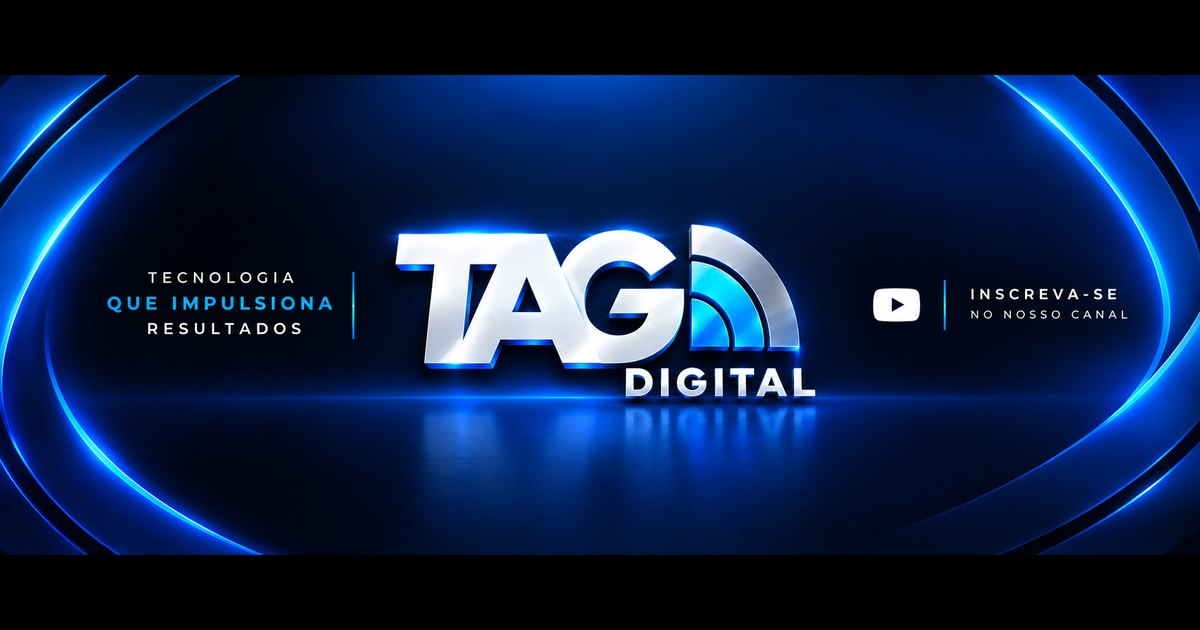
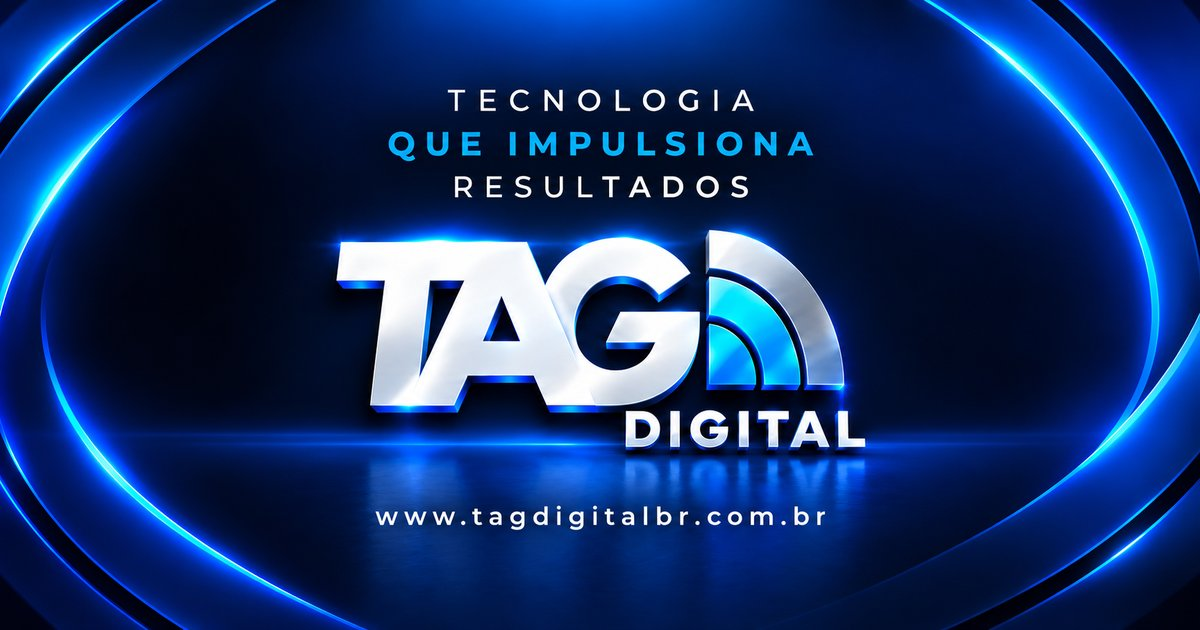
GTM, pré-visualização de link e base de SEO/GEO
GTM-T42P4MW3 no head e noscript no body. Nova imagem de link 1200x630 com og/twitter completos e URLs absolutas. JSON-LD em @graph (organização, site, Leadhub, Agilles e FAQ gerado do texto visível), robots.txt liberando bots de IA, sitemap.xml e llms.txt. Domínio: www.tagdigitalbr.com.br.

Claude-Session: https://claude.ai/code/session_019dJWcn6bvBrXAzEWKcv6Er

diff --git a/index.html b/index.html
@@ -2,17 +2,36 @@
 <html lang="pt-BR">
 <head>
 <meta charset="utf-8">
+<!-- Google Tag Manager -->
+<script>(function(w,d,s,l,i){w[l]=w[l]||[];w[l].push({'gtm.start':
+new Date().getTime(),event:'gtm.js'});var f=d.getElementsByTagName(s)[0],
+j=d.createElement(s),dl=l!='dataLayer'?'&l='+l:'';j.async=true;j.src=
+'https://www.googletagmanager.com/gtm.js?id='+i+dl;f.parentNode.insertBefore(j,f);
+})(window,document,'script','dataLayer','GTM-T42P4MW3');</script>
+<!-- End Google Tag Manager -->
 <meta name="viewport" content="width=device-width, initial-scale=1">
-<title>TAG Digital — Tecnologia que impulsiona resultados</title>
-<meta name="description" content="Plataformas próprias, inteligência artificial e desenvolvimento sob medida para conectar marketing, vendas e gestão. Leadhub CRM, Superagente IA, Agilles ERP, sites, automações e performance.">
+<title>TAG Digital — Tecnologia, IA e marketing de performance em BH</title>
+<meta name="description" content="Leadhub CRM, Superagente IA, Agilles ERP, sites, automações com IA e marketing de performance para empresas. TAG Digital, Belo Horizonte (MG).">
+<meta name="robots" content="index, follow, max-image-preview:large, max-snippet:-1">
 <meta name="theme-color" content="#010615">
-<link rel="canonical" href="https://redetag.com.br/">
+<link rel="canonical" href="https://www.tagdigitalbr.com.br/">
+<!-- pré-visualização de link (WhatsApp, LinkedIn, Facebook, X) -->
 <meta property="og:type" content="website">
 <meta property="og:locale" content="pt_BR">
+<meta property="og:site_name" content="TAG Digital">
+<meta property="og:url" content="https://www.tagdigitalbr.com.br/">
 <meta property="og:title" content="TAG Digital — Tecnologia que impulsiona resultados">
 <meta property="og:description" content="Plataformas próprias, IA e desenvolvimento sob medida para conectar marketing, vendas e gestão.">
-<meta property="og:image" content="assets/img/og-tag.jpg">
+<meta property="og:image" content="https://www.tagdigitalbr.com.br/assets/img/og-tag.jpg">
+<meta property="og:image:secure_url" content="https://www.tagdigitalbr.com.br/assets/img/og-tag.jpg">
+<meta property="og:image:type" content="image/jpeg">
+<meta property="og:image:width" content="1200">
+<meta property="og:image:height" content="630">
+<meta property="og:image:alt" content="TAG Digital — Tecnologia que impulsiona resultados">
 <meta name="twitter:card" content="summary_large_image">
+<meta name="twitter:title" content="TAG Digital — Tecnologia que impulsiona resultados">
+<meta name="twitter:description" content="Plataformas próprias, IA e desenvolvimento sob medida para conectar marketing, vendas e gestão.">
+<meta name="twitter:image" content="https://www.tagdigitalbr.com.br/assets/img/og-tag.jpg">
 <link rel="icon" href="favicon.ico" sizes="any">
 <link rel="icon" type="image/png" href="favicon.png">
 <link rel="apple-touch-icon" href="apple-touch-icon.png">
@@ -20,10 +39,236 @@
 <link rel="preload" href="assets/fonts/OpenSans-400.woff2" as="font" type="font/woff2" crossorigin>
 <link rel="stylesheet" href="assets/css/site.css">
 <script type="application/ld+json">
-{"@context":"https://schema.org","@type":"Organization","name":"TAG Digital","url":"https://redetag.com.br","logo":"https://redetag.com.br/assets/img/tag-logo.png","email":"comercialtagdigital@gmail.com","telephone":"+55-31-99315-1956","address":{"@type":"PostalAddress","addressLocality":"Belo Horizonte","addressRegion":"MG","addressCountry":"BR"},"slogan":"Tecnologia que impulsiona resultados"}
+{
+ "@context": "https://schema.org",
+ "@graph": [
+  {
+   "@type": [
+    "Organization",
+    "ProfessionalService"
+   ],
+   "@id": "https://www.tagdigitalbr.com.br/#org",
+   "name": "TAG Digital",
+   "url": "https://www.tagdigitalbr.com.br/",
+   "logo": "https://www.tagdigitalbr.com.br/assets/img/tag-logo.png",
+   "image": "https://www.tagdigitalbr.com.br/assets/img/og-tag.jpg",
+   "slogan": "Tecnologia que impulsiona resultados",
+   "description": "Empresa de tecnologia e marketing de Belo Horizonte: plataformas próprias (Leadhub CRM, Superagente IA, Agilles ERP), sites e aplicações, agentes de IA, automações e marketing de performance.",
+   "email": "comercialtagdigital@gmail.com",
+   "telephone": "+55-31-99315-1956",
+   "address": {
+    "@type": "PostalAddress",
+    "addressLocality": "Belo Horizonte",
+    "addressRegion": "MG",
+    "addressCountry": "BR"
+   },
+   "areaServed": {
+    "@type": "Country",
+    "name": "Brasil"
+   },
+   "knowsAbout": [
+    "CRM",
+    "Agentes de IA para WhatsApp",
+    "ERP",
+    "Desenvolvimento de sites e aplicações",
+    "Automação e integrações",
+    "Google Ads",
+    "Meta Ads",
+    "LinkedIn Ads",
+    "SEO",
+    "GEO",
+    "Growth marketing",
+    "Identidade visual"
+   ],
+   "hasOfferCatalog": {
+    "@type": "OfferCatalog",
+    "name": "Soluções TAG Digital",
+    "itemListElement": [
+     {
+      "@type": "Offer",
+      "itemOffered": {
+       "@type": "Service",
+       "name": "Sites, landing pages e aplicações"
+      }
+     },
+     {
+      "@type": "Offer",
+      "itemOffered": {
+       "@type": "Service",
+       "name": "Agentes de IA"
+      }
+     },
+     {
+      "@type": "Offer",
+      "itemOffered": {
+       "@type": "Service",
+       "name": "Automações e integrações"
+      }
+     },
+     {
+      "@type": "Offer",
+      "itemOffered": {
+       "@type": "Service",
+       "name": "Dados e dashboards"
+      }
+     },
+     {
+      "@type": "Offer",
+      "itemOffered": {
+       "@type": "Service",
+       "name": "Performance em mídia paga"
+      }
+     },
+     {
+      "@type": "Offer",
+      "itemOffered": {
+       "@type": "Service",
+       "name": "Growth marketing"
+      }
+     },
+     {
+      "@type": "Offer",
+      "itemOffered": {
+       "@type": "Service",
+       "name": "SEO & GEO"
+      }
+     },
+     {
+      "@type": "Offer",
+      "itemOffered": {
+       "@type": "Service",
+       "name": "Consultoria e plano de mídia"
+      }
+     },
+     {
+      "@type": "Offer",
+      "itemOffered": {
+       "@type": "Service",
+       "name": "Identidade visual"
+      }
+     },
+     {
+      "@type": "Offer",
+      "itemOffered": {
+       "@type": "Service",
+       "name": "Criativos para redes e anúncios"
+      }
+     },
+     {
+      "@type": "Offer",
+      "itemOffered": {
+       "@type": "Service",
+       "name": "Gestão de redes sociais"
+      }
+     }
+    ]
+   },
+   "owns": [
+    {
+     "@id": "https://www.tagdigitalbr.com.br/#leadhub"
+    },
+    {
+     "@id": "https://www.tagdigitalbr.com.br/#agilles"
+    }
+   ]
+  },
+  {
+   "@type": "WebSite",
+   "@id": "https://www.tagdigitalbr.com.br/#site",
+   "url": "https://www.tagdigitalbr.com.br/",
+   "name": "TAG Digital",
+   "inLanguage": "pt-BR",
+   "publisher": {
+    "@id": "https://www.tagdigitalbr.com.br/#org"
+   }
+  },
+  {
+   "@type": "SoftwareApplication",
+   "@id": "https://www.tagdigitalbr.com.br/#leadhub",
+   "name": "Leadhub",
+   "applicationCategory": "BusinessApplication",
+   "operatingSystem": "Web",
+   "url": "https://www.leadhubapp.com.br",
+   "description": "CRM que reúne leads do WhatsApp, do site e das campanhas no mesmo funil, com origem rastreada e o Superagente de IA integrado.",
+   "publisher": {
+    "@id": "https://www.tagdigitalbr.com.br/#org"
+   }
+  },
+  {
+   "@type": "SoftwareApplication",
+   "@id": "https://www.tagdigitalbr.com.br/#agilles",
+   "name": "Agilles ERP",
+   "applicationCategory": "BusinessApplication",
+   "operatingSystem": "Web",
+   "url": "https://novo.agilles.com.br",
+   "description": "ERP para organizar a rotina da empresa em um só lugar, com módulos ativados conforme a operação.",
+   "publisher": {
+    "@id": "https://www.tagdigitalbr.com.br/#org"
+   }
+  },
+  {
+   "@type": "FAQPage",
+   "@id": "https://www.tagdigitalbr.com.br/#faq",
+   "mainEntity": [
+    {
+     "@type": "Question",
+     "name": "Quais projetos a TAG desenvolve?",
+     "acceptedAnswer": {
+      "@type": "Answer",
+      "text": "Plataformas próprias (Leadhub, Superagente e Agilles), sites e aplicações, agentes de IA, automações e integrações, além de marketing de performance, SEO e marca. O escopo sai da necessidade de cada empresa."
+     }
+    },
+    {
+     "@type": "Question",
+     "name": "Vocês ainda fazem gestão de tráfego pago?",
+     "acceptedAnswer": {
+      "@type": "Answer",
+      "text": "Sim. Mídia paga continua sendo uma das nossas frentes, agora conectada ao CRM, ao atendimento e à mensuração, para que o investimento seja lido pelo que vira venda."
+     }
+    },
+    {
+     "@type": "Question",
+     "name": "Posso contratar só uma solução?",
+     "acceptedAnswer": {
+      "@type": "Answer",
+      "text": "Pode. O projeto atende uma necessidade específica ou combina frentes diferentes, conforme o objetivo e o escopo combinado."
+     }
+    },
+    {
+     "@type": "Question",
+     "name": "Dá para integrar os sistemas que eu já uso?",
+     "acceptedAnswer": {
+      "@type": "Answer",
+      "text": "Depende das plataformas, dos acessos e das APIs disponíveis. Essa avaliação faz parte do diagnóstico, antes de qualquer proposta."
+     }
+    },
+    {
+     "@type": "Question",
+     "name": "Como funciona a implantação de um agente de IA?",
+     "acceptedAnswer": {
+      "@type": "Answer",
+      "text": "Diagnóstico, definição das tarefas, configuração, testes e acompanhamento. O que o agente responde e quando ele passa a conversa para uma pessoa são definidos com você."
+     }
+    },
+    {
+     "@type": "Question",
+     "name": "Como são definidos investimento e prazo?",
+     "acceptedAnswer": {
+      "@type": "Answer",
+      "text": "Pelo escopo, pela complexidade, pela implantação e por eventual recorrência. Tudo aparece na proposta, com etapas e entregas claras."
+     }
+    }
+   ]
+  }
+ ]
+}
 </script>
 </head>
 <body>
+<!-- Google Tag Manager (noscript) -->
+<noscript><iframe src="https://www.googletagmanager.com/ns.html?id=GTM-T42P4MW3"
+height="0" width="0" style="display:none;visibility:hidden"></iframe></noscript>
+<!-- End Google Tag Manager (noscript) -->
 <a class="skip" href="#conteudo">Pular para o conteúdo</a>
 
 <header class="nav" data-nav>
@@ -99,7 +344,7 @@
 <section class="vt" aria-labelledby="vt-title">
   <div class="wrap vt__head">
     <h2 id="vt-title" class="h2">Da primeira oportunidade<br><span class="gold">à operação rodando.</span></h2>
-    <p class="vt__text">A TAG nasceu no marketing de performance. Depois de 15 anos gerando demanda para empresas de dez segmentos, vimos o mesmo gargalo se repetir: o lead chega, mas o atendimento, o CRM e a gestão não acompanham. Por isso passamos a construir a tecnologia que faltava.</p>
+    <p class="vt__text">A TAG Digital é uma empresa de tecnologia e marketing de Belo Horizonte que nasceu no marketing de performance. Depois de 15 anos gerando demanda para empresas de dez segmentos, vimos o mesmo gargalo se repetir: o lead chega, mas o atendimento, o CRM e a gestão não acompanham. Por isso passamos a construir a tecnologia que faltava.</p>
   </div>
   <div class="vt__stage" data-vt>
     <video class="vt__video" muted loop playsinline preload="none" poster="assets/video/tag-vt-poster.jpg" aria-label="Vinheta da marca TAG Digital">

diff --git a/README.md b/README.md
@@ -1,6 +1,8 @@
 # TAG Digital — site
 
-Site institucional da TAG Digital (redetag.com.br). HTML, CSS e JS puros: sem build, sem dependências, sem cookies.
+Site institucional da TAG Digital (www.tagdigitalbr.com.br). HTML, CSS e JS puros: sem build e sem dependências. Medição via Google Tag Manager (`GTM-T42P4MW3`); tags e cookies são configurados no painel do GTM.
+
+SEO/GEO: metadados e pré-visualização de link no `<head>`, JSON-LD (organização, plataformas e FAQ, gerado a partir do FAQ visível), `robots.txt` liberando buscadores e assistentes de IA, `sitemap.xml` e `llms.txt`. Domínio configurado: `https://www.tagdigitalbr.com.br/`.
 
 ## Rodar localmente
 
